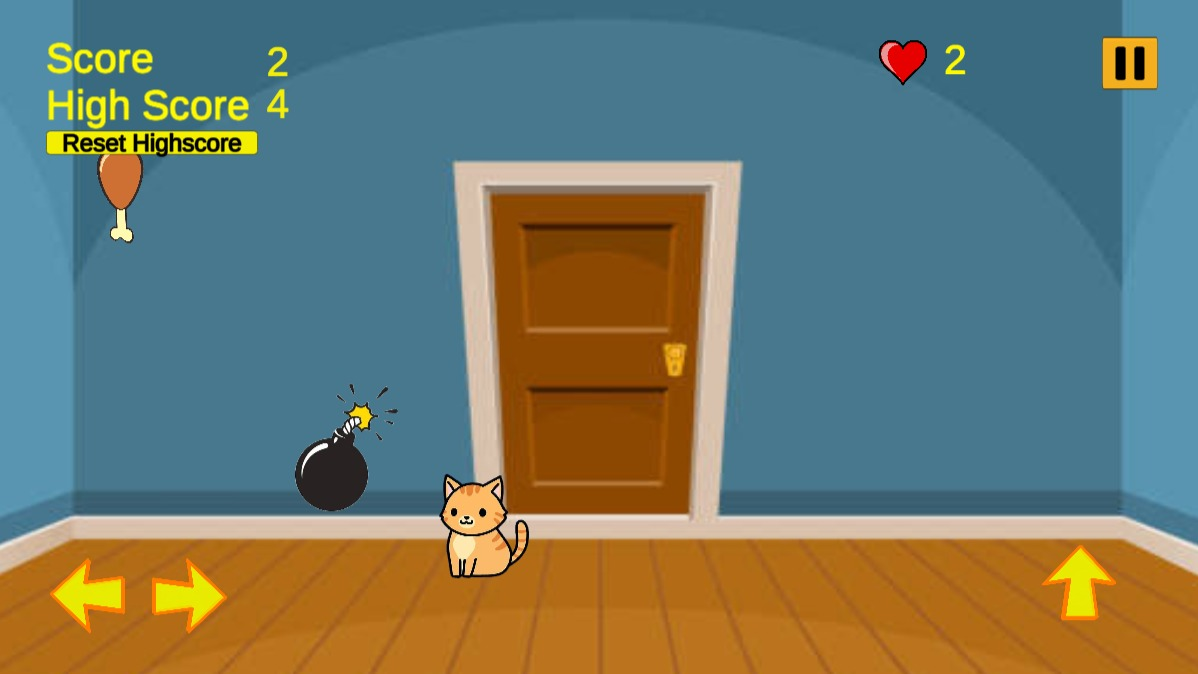
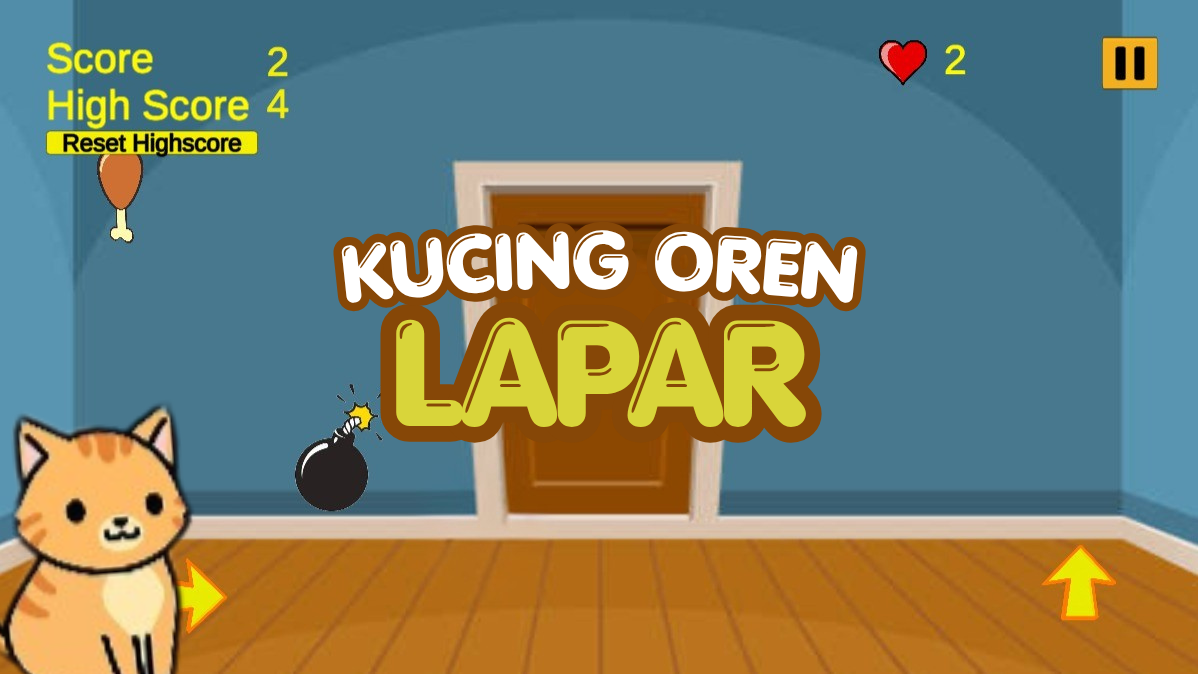
adding github button at website card

diff --git a/src/components/ProjectsCard.jsx b/src/components/ProjectsCard.jsx
@@ -1,6 +1,7 @@
 import { useState } from "react";
+import { FaGithub } from "react-icons/fa";
 
-function ProjectsCard({ title, image, buttonLink, buttonText, reactIcon, localIcon, description, descLink, badges, index = 0 }) {
+function ProjectsCard({ title, image, buttonLink, buttonText, githubLink, reactIcon, localIcon, description, descLink, badges, index = 0 }) {
   const [imgLoaded, setImgLoaded] = useState(false);
 
   return (
@@ -24,6 +25,14 @@ function ProjectsCard({ title, image, buttonLink, buttonText, reactIcon, localIc
             {buttonText}
           </span>
         </a>
+        {githubLink && (
+          <a href={githubLink} target="_blank" rel="noopener noreferrer" className="absolute bottom-4 left-0 text-white text-sm font-semibold rounded-md px-4">
+            <span className="flex items-center gap-1.5 bg-black/70 text-white font-bold rounded-full px-4 py-2 ring-1 ring-white/20 hover:bg-gray-700 transition duration-300">
+              <FaGithub className="text-base" />
+              GitHub
+            </span>
+          </a>
+        )}
       </div>
 
       <div className="p-5">

diff --git a/src/data/projectsData.js b/src/data/projectsData.js
@@ -19,6 +19,7 @@ export const projects = [
     image: website1,
     buttonLink: "https://cto-website.vercel.app/",
     buttonText: "View Website",
+    githubLink: "https://github.com/Rizors29/cto-website",
 
     reactIcon: [
       { icon: FaReact, tooltip: "React" },
@@ -98,10 +99,11 @@ export const projects = [
   {
     id: 4,
     category: "website",
-    title: "Uni Craft Profile Web",
+    title: "Uni Craft Profile",
     image: website2,
     buttonLink: "https://gilang-uni-website.vercel.app",
     buttonText: "View Website",
+    githubLink: "https://github.com/Rizors29/gilang-uni-website",
 
     reactIcon: [
       { icon: FaReact, tooltip: "React" },
